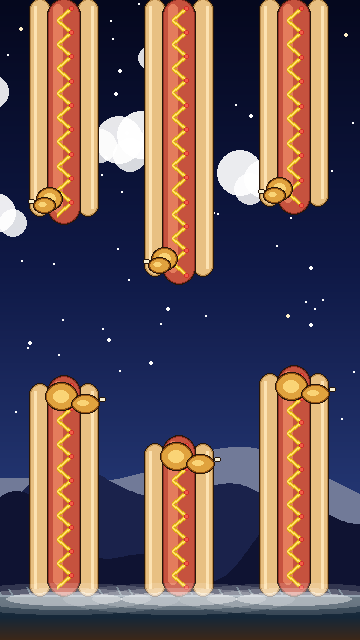
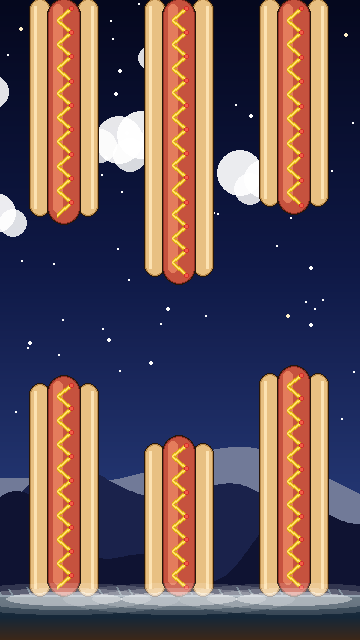
V2-bun1: drop chicken-wing gap-edge accents
Picked variant: V2-bun1 Classic Side. Feedback was that the small
ellipse decorations at the sausage tips (chicken-wing accents) read
as visual clutter. Stripped the call to _draw_chicken_wing_accents()
from draw_v2_bun1 - the hot dog now stands on its own with just bun
+ sausage + mustard zigzag + ketchup dots.

The other 4 V2 bun candidates (bun2 Cradle, bun3 Brioche, bun4 Pretzel,
bun5 Sub Roll) still call the wing accent in their draw fns; they're
no longer the picked option but left as-is for reference. The wing
accents will not appear in the shipped V2 design.

Re-rendered docs/kfc_pillar_variants/v2_bun/v2_bun1.png + compare.png.

diff --git a/tools/render_v2_bun_variants.py b/tools/render_v2_bun_variants.py
@@ -221,12 +221,12 @@ def _draw_bun_classic(surf, rect, *, hi=BUN_HI, mid=BUN_MID, lo=BUN_LO):
 
 
 def draw_v2_bun1(surf, top_rect, bot_rect, palette, seed):
-    """V2-bun1 Classic Side - smooth golden side strips."""
+    """V2-bun1 Classic Side - smooth golden side strips. No gap-edge
+    decorations: just bun + sausage + mustard zigzag + ketchup dots."""
     _draw_bun_classic(surf, top_rect)
     _draw_bun_classic(surf, bot_rect)
     _draw_sausage_segment(surf, top_rect, gap_side='bottom', seed=seed)
     _draw_sausage_segment(surf, bot_rect, gap_side='top', seed=seed)
-    _draw_chicken_wing_accents(surf, top_rect, bot_rect)
 
 
 # ----- v2_bun2 Soft Cradle --------------------------------------------------
